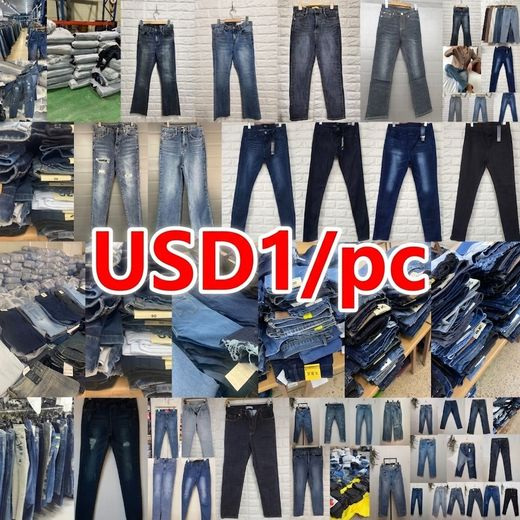
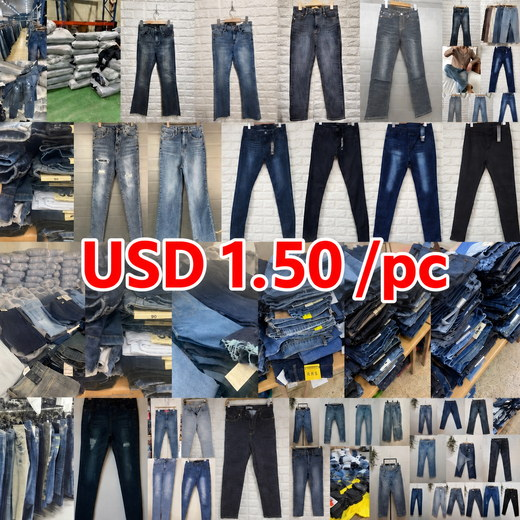
Denim poster: price updated to USD 1.50 /pc, drop old-price note

diff --git a/index.html b/index.html
@@ -1203,7 +1203,7 @@
       id:"denim",
       cat:"Jean · Stocklot", cats:["jean"],
       title:"Denim Jeans Stocklot — Brand New",
-      badge:"New price · USD 1.50",
+      badge:"Stocklot",
       price:"USD 1.50", unit:"/ pc",
       meta:"Mixed styles &amp; sizes · by container",
       poster:A+"poster-denim.jpg",
@@ -1217,7 +1217,7 @@
         ["Shipping","Quoted per destination"]
       ],
       msg:"Hello, I am interested in your Denim Jeans Stocklot at USD 1.50/pc. Please send the available styles, the size breakdown, quantity per container and the shipping quote.",
-      note:"Current price: USD 1.50 / pc. The printed poster still shows an older USD 1 / pc — the USD 1.50 price above is the one that applies."
+      note:"Baled stocklot, men's and women's denim mixed — the current size curve and style mix are confirmed from stock photos on WhatsApp."
     },
     {
       id:"sourcing",
